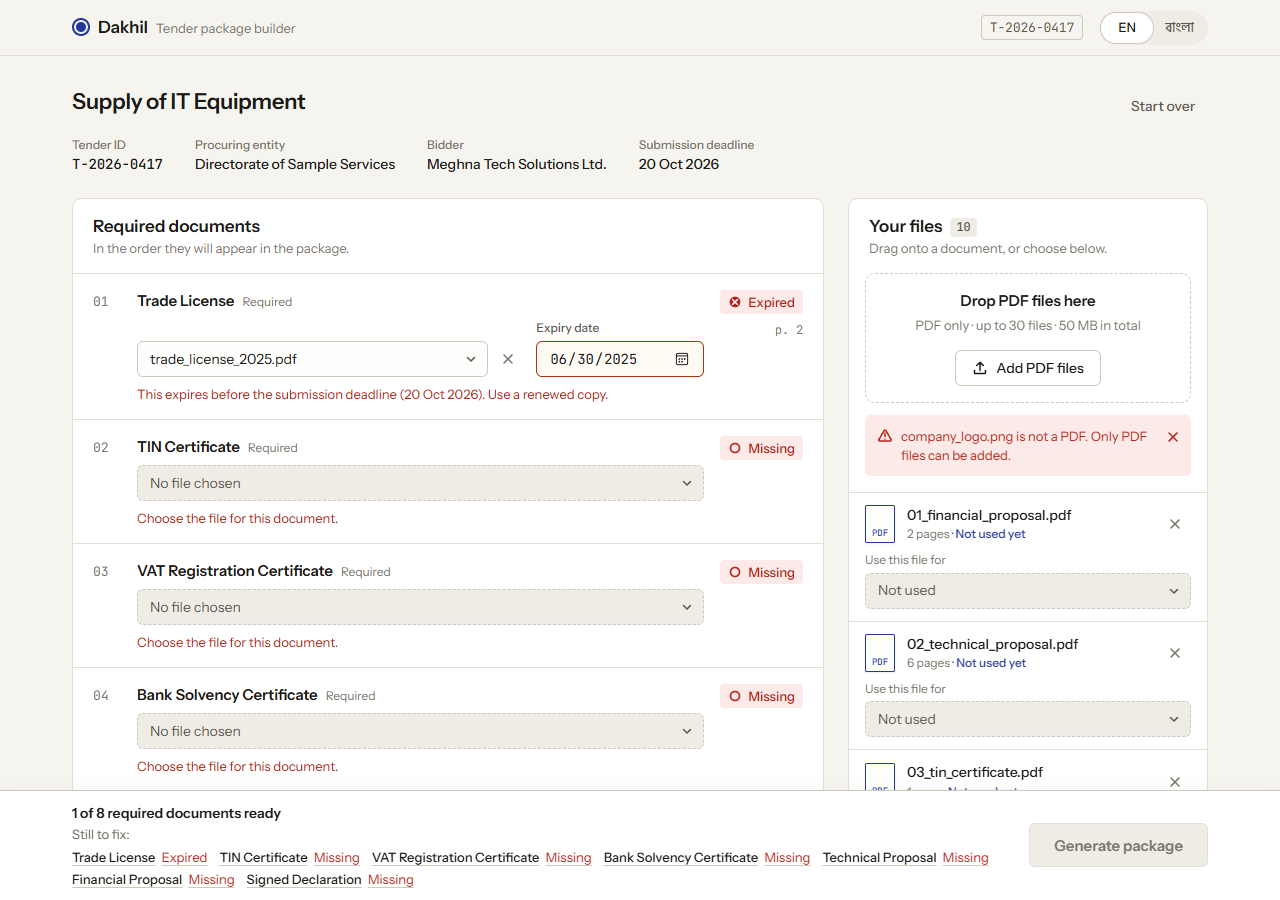
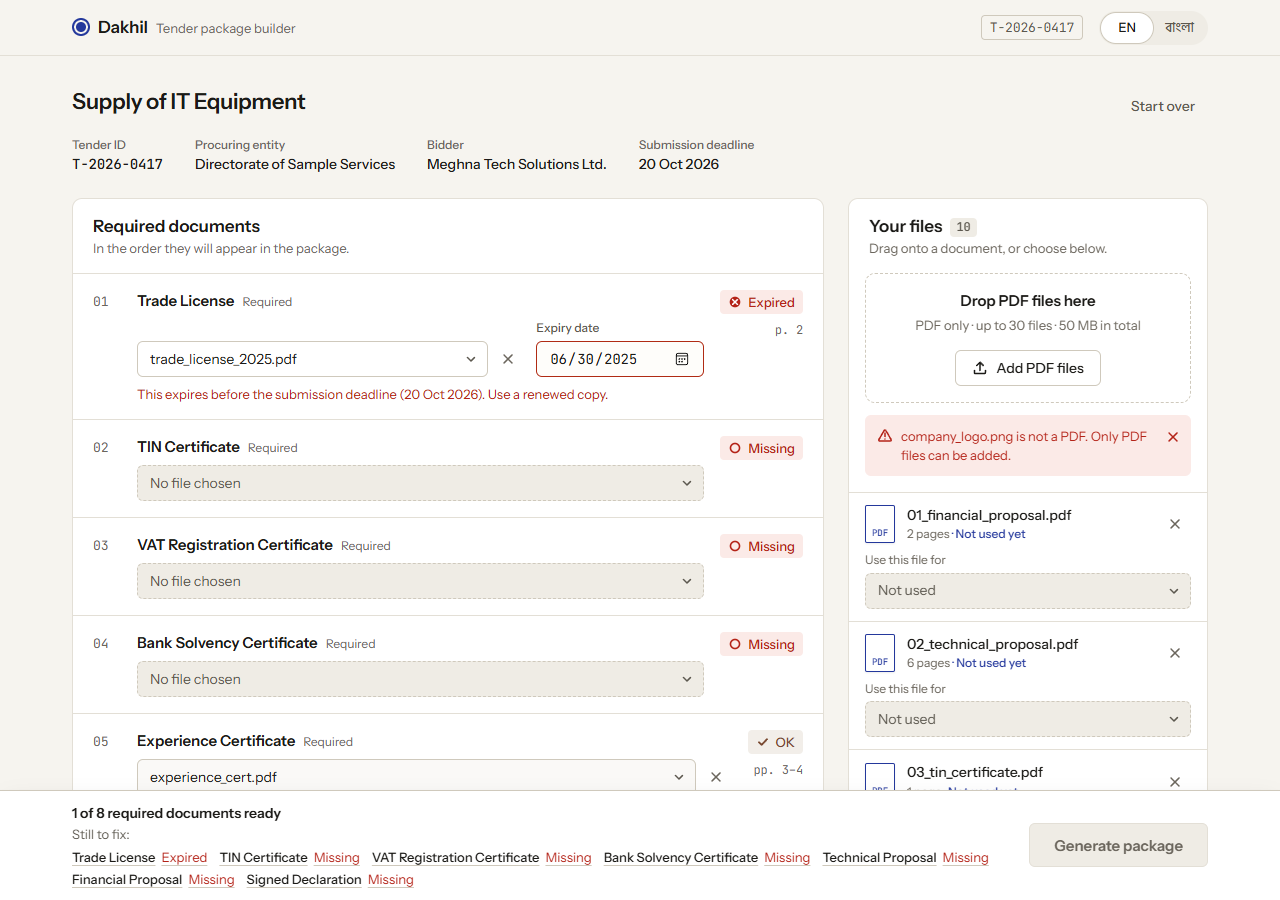
update: worked on the exceptional feature - drop the folder and accept it at one glance.

Changed region(s): [[0.0625, 0.56, 0.625, 0.8711], [0.5938, 0.8089, 0.625, 0.84]]

diff --git a/src/i18n/strings.ts b/src/i18n/strings.ts
@@ -1,5 +1,6 @@
 export const en = {
   'app.name': 'Dakhil',
+  'app.title': 'Dakhil: Our Tender package builder',
   'app.tagline': 'Tender package builder',
   'app.skip': 'Skip to content',
   'app.privacy': 'Your files stay in this browser. Nothing is uploaded.',
@@ -13,7 +14,7 @@ export const en = {
   'start.step3': 'Download one checked, ordered package',
   'start.drop': 'Drop requirements.json here',
   'start.dropHint': 'You can drop your PDF files together with it.',
-  'start.choose': 'Choose file',
+  'start.choose': 'Choose requirements.json',
   'start.sample': 'Try with the sample tender',
   'start.loading': 'Opening…',
   'start.err.json': 'This file could not be read. Please choose the requirements.json file from the tender pack.',
@@ -42,7 +43,6 @@ export const en = {
   'row.expiry': 'Expiry date',
   'row.page': 'p. {a}',
   'row.pages': 'pp. {a}–{b}',
-  'row.hint.missing': 'Choose the file for this document.',
   'row.hint.expiryNeeded': 'Enter the expiry date printed on this document.',
   'row.hint.expired': 'This expires before the submission deadline ({date}). Use a renewed copy.',
 
@@ -85,12 +85,15 @@ export const en = {
   'bar.download': 'Download',
   'bar.preview': 'Open preview',
   'bar.error': 'The package could not be built because {file} could not be read. Remove it and add a fresh copy.',
+  'bar.errorGeneric': 'The package could not be built. Please try again.',
+  'bar.more': '+{n} more',
 } as const;
 
 export type StringKey = keyof typeof en;
 
 export const bn: Record<StringKey, string> = {
   'app.name': 'দাখিল',
+  'app.title': 'দাখিল: আমাদের টেন্ডার প্যাকেজ তৈরির টুল',
   'app.tagline': 'টেন্ডার প্যাকেজ তৈরি',
   'app.skip': 'মূল অংশে যান',
   'app.privacy': 'আপনার ফাইল এই ব্রাউজারেই থাকে। কোথাও আপলোড হয় না।',
@@ -104,7 +107,7 @@ export const bn: Record<StringKey, string> = {
   'start.step3': 'যাচাই করা, সাজানো একটি প্যাকেজ ডাউনলোড করুন',
   'start.drop': 'requirements.json এখানে ছেড়ে দিন',
   'start.dropHint': 'চাইলে PDF ফাইলগুলোও একসাথে ছেড়ে দিতে পারেন।',
-  'start.choose': 'ফাইল বাছুন',
+  'start.choose': 'requirements.json বাছুন',
   'start.sample': 'নমুনা টেন্ডার দিয়ে দেখুন',
   'start.loading': 'খোলা হচ্ছে…',
   'start.err.json': 'ফাইলটি পড়া যায়নি। টেন্ডার প্যাকের requirements.json ফাইলটি বাছুন।',
@@ -133,7 +136,6 @@ export const bn: Record<StringKey, string> = {
   'row.expiry': 'মেয়াদ শেষের তারিখ',
   'row.page': 'পৃ. {a}',
   'row.pages': 'পৃ. {a}–{b}',
-  'row.hint.missing': 'এই কাগজের ফাইলটি বাছুন।',
   'row.hint.expiryNeeded': 'কাগজে লেখা মেয়াদ শেষের তারিখটি দিন।',
   'row.hint.expired': 'দাখিলের শেষ তারিখের ({date}) আগেই এর মেয়াদ শেষ। নবায়ন করা কপি দিন।',
 
@@ -176,4 +178,6 @@ export const bn: Record<StringKey, string> = {
   'bar.download': 'ডাউনলোড',
   'bar.preview': 'প্রিভিউ খুলুন',
   'bar.error': '{file} পড়া যায়নি, তাই প্যাকেজ তৈরি হয়নি। ফাইলটি সরিয়ে নতুন কপি যোগ করুন।',
+  'bar.errorGeneric': 'প্যাকেজ তৈরি করা যায়নি। আবার চেষ্টা করুন।',
+  'bar.more': 'আরও {n}টি',
 };

diff --git a/src/styles/components.css b/src/styles/components.css
@@ -349,10 +349,11 @@
   text-wrap: pretty;
 }
 
+/* A plain numbered list, like instructions on a form. */
 .steps {
-  display: grid;
-  grid-template-columns: repeat(3, 1fr);
-  gap: var(--s4);
+  display: flex;
+  flex-direction: column;
+  gap: var(--s2);
   margin-top: var(--s5);
   padding-top: var(--s5);
   border-top: 1px solid var(--line);
@@ -360,9 +361,9 @@
 
 .steps__item {
   display: flex;
-  flex-direction: column;
-  gap: var(--s2);
-  font: var(--text-small);
+  align-items: baseline;
+  gap: var(--s3);
+  font-size: 0.875rem;
   color: var(--ink-2);
 }
 
@@ -546,7 +547,6 @@
 .row__hint {
   font: var(--text-small);
 }
-.row__hint--missing,
 .row__hint--expired {
   color: var(--danger);
 }
@@ -835,6 +835,11 @@
   color: var(--warn);
 }
 
+.blockers__more {
+  display: none;
+  color: var(--ink-2);
+}
+
 .actionbar__actions {
   flex: none;
   display: flex;
@@ -878,14 +883,6 @@
   }
   .start__title {
     font-size: 1.625rem;
-  }
-  .steps {
-    grid-template-columns: 1fr;
-    gap: var(--s3);
-  }
-  .steps__item {
-    flex-direction: row;
-    gap: var(--s3);
   }
   .workspace {
     padding-top: var(--s5);
@@ -936,6 +933,13 @@
     flex-direction: column;
     align-items: stretch;
     gap: var(--s3);
+  }
+  /* A long blocker list would bury the page under the sticky bar. */
+  .blockers li:nth-child(n + 2):not(.blockers__more) {
+    display: none;
+  }
+  .blockers__more {
+    display: block;
   }
   .actionbar__actions > .btn {
     flex: 1;

diff --git a/src/components/LedgerRow.tsx b/src/components/LedgerRow.tsx
@@ -48,14 +48,13 @@ export function LedgerRow({ row, project }: Props) {
     project.match(requirement.id, fileId);
   };
 
+  // "Missing" needs no extra sentence: the tag and the empty slot already say it.
   const hint =
-    status === 'missing'
-      ? t('row.hint.missing')
-      : status === 'expiryNeeded'
-        ? t('row.hint.expiryNeeded')
-        : status === 'expired'
-          ? t('row.hint.expired', { date: formatDate(project.tender?.submission_deadline ?? '') })
-          : null;
+    status === 'expiryNeeded'
+      ? t('row.hint.expiryNeeded')
+      : status === 'expired'
+        ? t('row.hint.expired', { date: formatDate(project.tender?.submission_deadline ?? '') })
+        : null;
 
   return (
     <li
@@ -91,7 +90,11 @@ export function LedgerRow({ row, project }: Props) {
                 className="icon-btn"
                 aria-label={t('row.unmatch', { doc: title })}
                 title={t('row.unmatch', { doc: title })}
-                onClick={() => project.unmatch(requirement.id)}
+                onClick={(event) => {
+                  // This button disappears with the match; keep keyboard focus in the row.
+                  event.currentTarget.parentElement?.querySelector('select')?.focus();
+                  project.unmatch(requirement.id);
+                }}
               >
                 <Icon name="close" />
               </button>

diff --git a/src/components/ActionBar.tsx b/src/components/ActionBar.tsx
@@ -40,7 +40,9 @@ export function ActionBar({ tender, rows }: { tender: Tender; rows: Row[] }) {
           )}
 
           {state.phase === 'error' ? (
-            <p className="actionbar__detail actionbar__detail--error">{t('bar.error', { file: state.fileName })}</p>
+            <p className="actionbar__detail actionbar__detail--error" role="alert">
+              {state.fileName ? t('bar.error', { file: state.fileName }) : t('bar.errorGeneric')}
+            </p>
           ) : blockers.length > 0 ? (
             <div className="actionbar__detail">
               <span>{t('bar.fix')}</span>
@@ -53,6 +55,12 @@ export function ActionBar({ tender, rows }: { tender: Tender; rows: Row[] }) {
                     </button>
                   </li>
                 ))}
+                {/* Small screens show only the next blocker plus this count (see CSS). */}
+                {blockers.length > 1 && (
+                  <li className="blockers__more" aria-hidden="true">
+                    {t('bar.more', { n: blockers.length - 1 })}
+                  </li>
+                )}
               </ul>
             </div>
           ) : state.phase === 'done' ? (

diff --git a/src/components/FileCard.tsx b/src/components/FileCard.tsx
@@ -13,11 +13,15 @@ export function FileCard({ file, project }: { file: UploadedFile; project: Proje
 
   const options: SelectOption[] = [
     { value: '', label: t('file.notUsed') },
-    ...project.requirements.map((requirement) => ({
-      value: requirement.id,
-      label: `${requirement.order}. ${titleOf(requirement, lang)}`,
-      disabled: project.duplicateConflict(file.id, requirement.id) !== null,
-    })),
+    ...project.requirements.map((requirement) => {
+      const blocked = project.duplicateConflict(file.id, requirement.id) !== null;
+      const label = `${requirement.order}. ${titleOf(requirement, lang)}`;
+      return {
+        value: requirement.id,
+        label: blocked ? `${label} (${t('row.sameContentUsed')})` : label,
+        disabled: blocked,
+      };
+    }),
   ];
 
   return (

diff --git a/src/components/DropZone.tsx b/src/components/DropZone.tsx
@@ -45,7 +45,12 @@ export function DropZone({ title, hint, buttonLabel, accept, onFiles, size = 'co
       <p className="dropzone__title">{title}</p>
       {hint && <p className="dropzone__hint">{hint}</p>}
       <div className="dropzone__actions">
-        <button type="button" className="btn btn--secondary" disabled={busy} onClick={() => input.current?.click()}>
+        <button
+          type="button"
+          className={cx('btn', size === 'large' ? 'btn--primary' : 'btn--secondary')}
+          disabled={busy}
+          onClick={() => input.current?.click()}
+        >
           <Icon name="upload" />
           {buttonLabel}
         </button>

diff --git a/src/styles/base.css b/src/styles/base.css
@@ -12,6 +12,11 @@ html {
 /* Bangla glyphs are shorter and need more leading than Latin at the same size. */
 html:lang(bn) {
   font-size: 106.25%;
+  --text-display: 600 1.875rem/1.4 var(--font-ui);
+  --text-title: 600 1.375rem/1.45 var(--font-ui);
+  --text-heading: 600 1.0625rem/1.6 var(--font-ui);
+  --text-body: 400 0.9375rem/1.6 var(--font-ui);
+  --text-small: 400 0.8125rem/1.6 var(--font-ui);
 }
 html:lang(bn) body {
   line-height: 1.6;

diff --git a/src/i18n/index.tsx b/src/i18n/index.tsx
@@ -29,6 +29,7 @@ export function I18nProvider({ children }: { children: ReactNode }) {
 
   useEffect(() => {
     document.documentElement.lang = lang;
+    document.title = dictionaries[lang]['app.title'];
   }, [lang]);
 
   const setLang = useCallback((next: Lang) => {

diff --git a/src/styles/tokens.css b/src/styles/tokens.css
@@ -9,7 +9,7 @@
   /* Ink */
   --ink: #1b1a17;
   --ink-2: #5c584f;
-  --ink-3: #7a756b;
+  --ink-3: #6b665d; /* dark enough for small text on paper and sunken, not just white */
 
   /* The one accent: rubber-stamp blue */
   --seal: #24389c;
